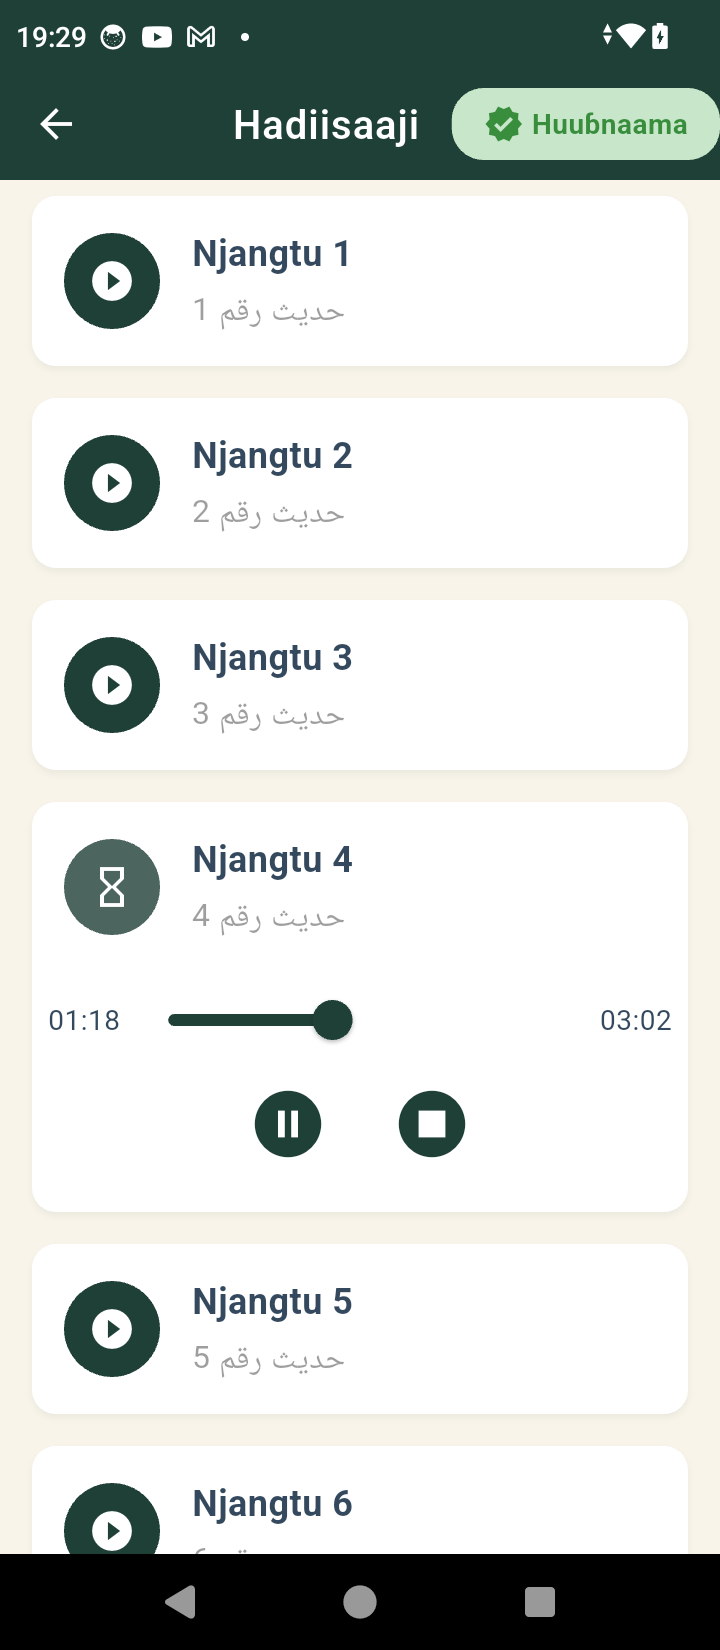
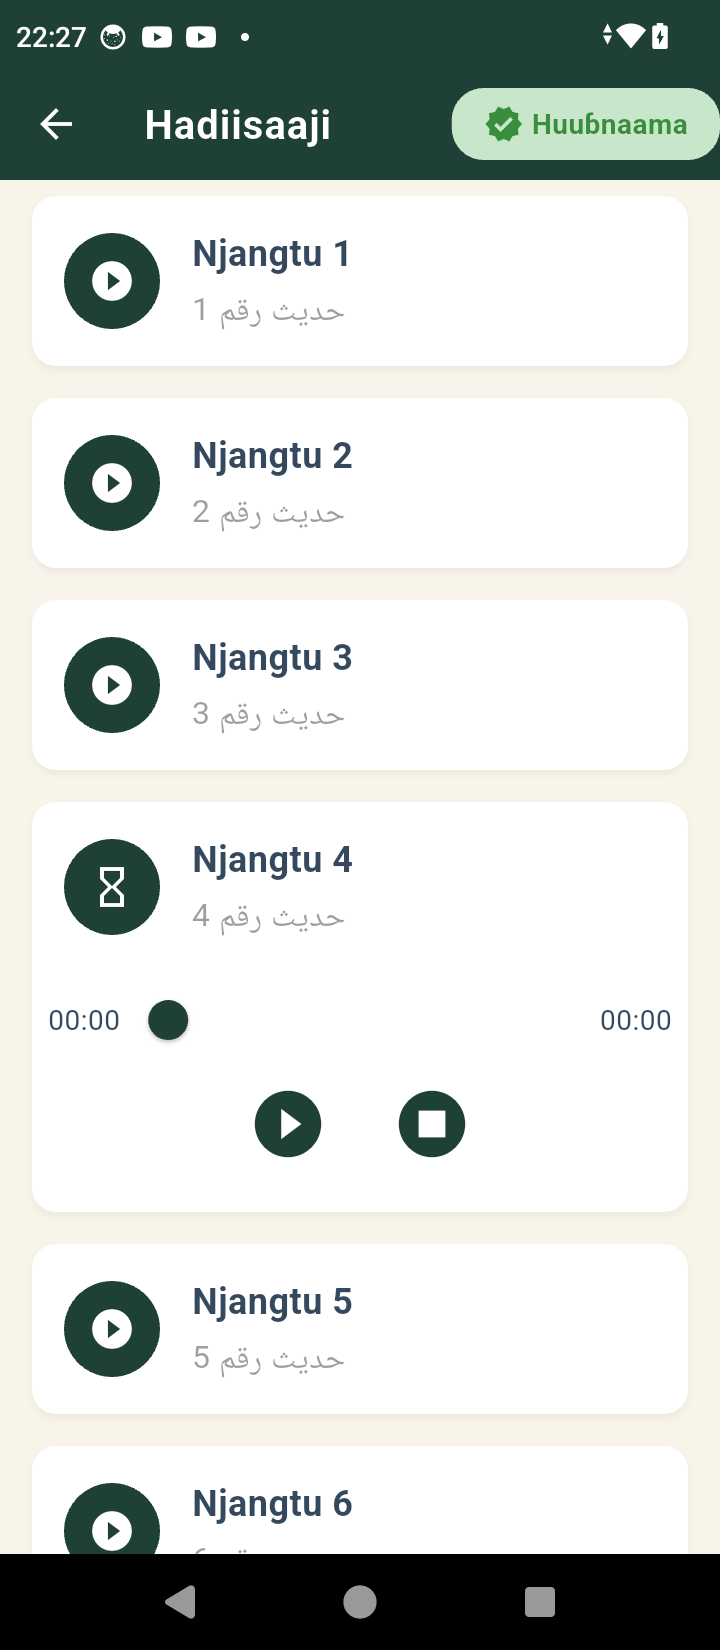
Quicks fix

diff --git a/lib/features/surah/widgets/surah_card.dart b/lib/features/surah/widgets/surah_card.dart
@@ -50,15 +50,24 @@ class SurahCard extends StatelessWidget {
                 ),
               ),
               const SizedBox(width: 16),
+              Text(
+                surah.nameArabic,
+                style: const TextStyle(
+                  fontSize: 20,
+                  fontFamily: 'Arabic',
+                  fontWeight: FontWeight.bold,
+                ),
+              ),
+              const SizedBox(width: 16),
               Expanded(
                 child: Column(
                   crossAxisAlignment: CrossAxisAlignment.start,
                   children: [
                     Text(
-                      surah.nameArabic,
-                      style: const TextStyle(
-                        fontSize: 18,
-                        fontWeight: FontWeight.bold,
+                      'Maandeeji ${surah.verses}',
+                      style: TextStyle(
+                        color: Colors.grey[600],
+                        fontSize: 14,
                       ),
                     ),
                     const SizedBox(height: 4),
@@ -66,6 +75,7 @@ class SurahCard extends StatelessWidget {
                       surah.namePulaar,
                       style: TextStyle(
                         color: Colors.grey[600],
+                        fontSize: 16,
                       ),
                     ),
                   ],

diff --git a/lib/features/surah/all_surahs_screen.dart b/lib/features/surah/all_surahs_screen.dart
@@ -18,7 +18,15 @@ class AllSurahsScreen extends GetView<QuranService> {
           icon: const Icon(Icons.arrow_back),
           onPressed: () => Get.back(),
         ),
-        title: const Text('Cimooje'),
+        title: const Text(
+          'Cimooje',
+          textAlign: TextAlign.left,
+          style: TextStyle(
+            fontSize: 20,
+            fontWeight: FontWeight.bold,
+          ),
+        ),
+        centerTitle: false,
         actions: [
           Obx(() => settingsService.isActivated
               ? Container(

diff --git a/lib/features/hadith/hadith_screen.dart b/lib/features/hadith/hadith_screen.dart
@@ -47,7 +47,15 @@ class HadithScreen extends StatelessWidget {
       },
       child: Scaffold(
         appBar: AppBar(
-          title: const Text('Hadiisaaji'),
+          title: const Text(
+            'Hadiisaaji',
+            textAlign: TextAlign.left,
+            style: TextStyle(
+              fontSize: 20,
+              fontWeight: FontWeight.bold,
+            ),
+          ),
+          centerTitle: false,
           leading: IconButton(
             icon: const Icon(Icons.arrow_back),
             onPressed: () async {
